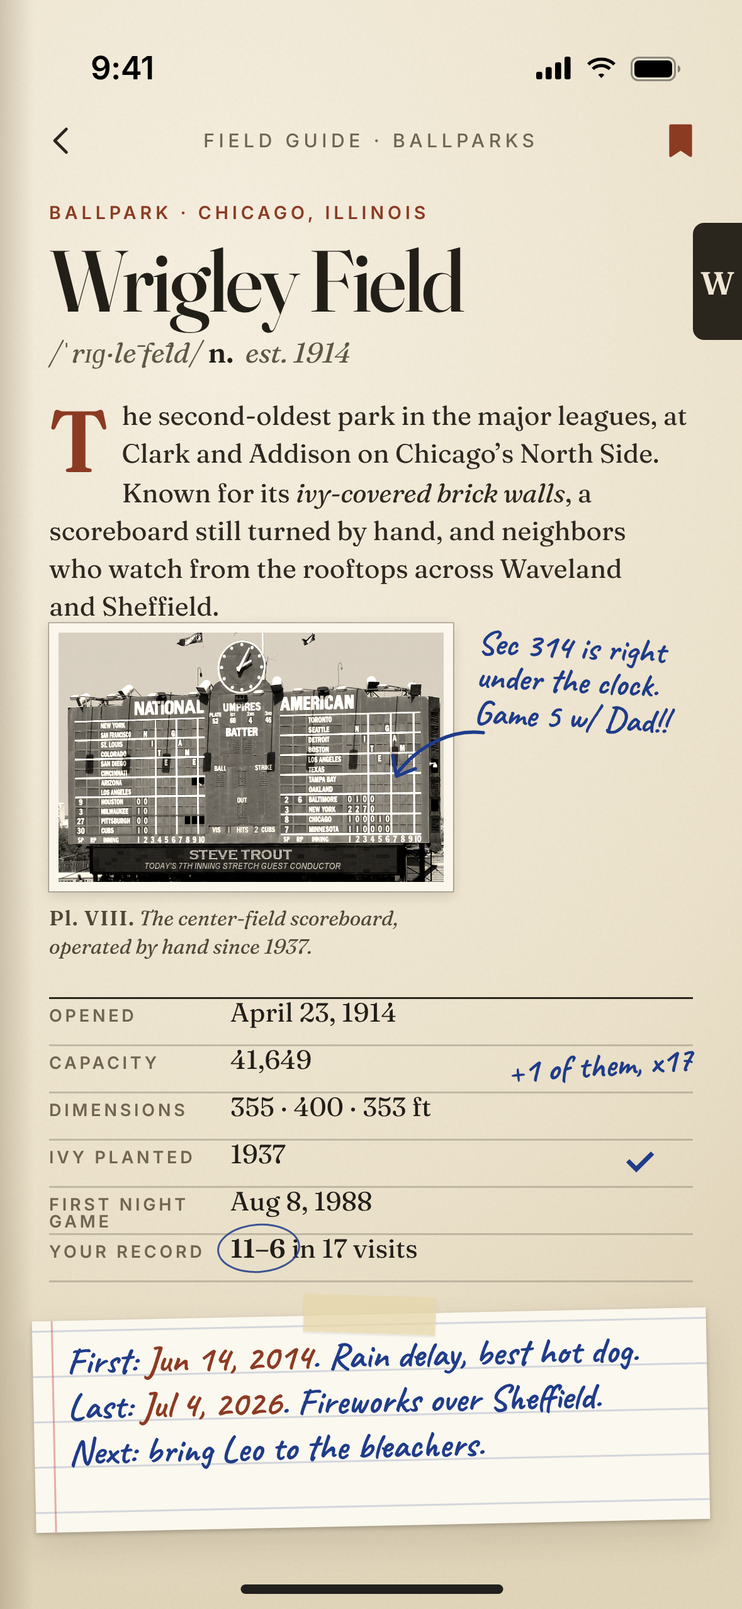
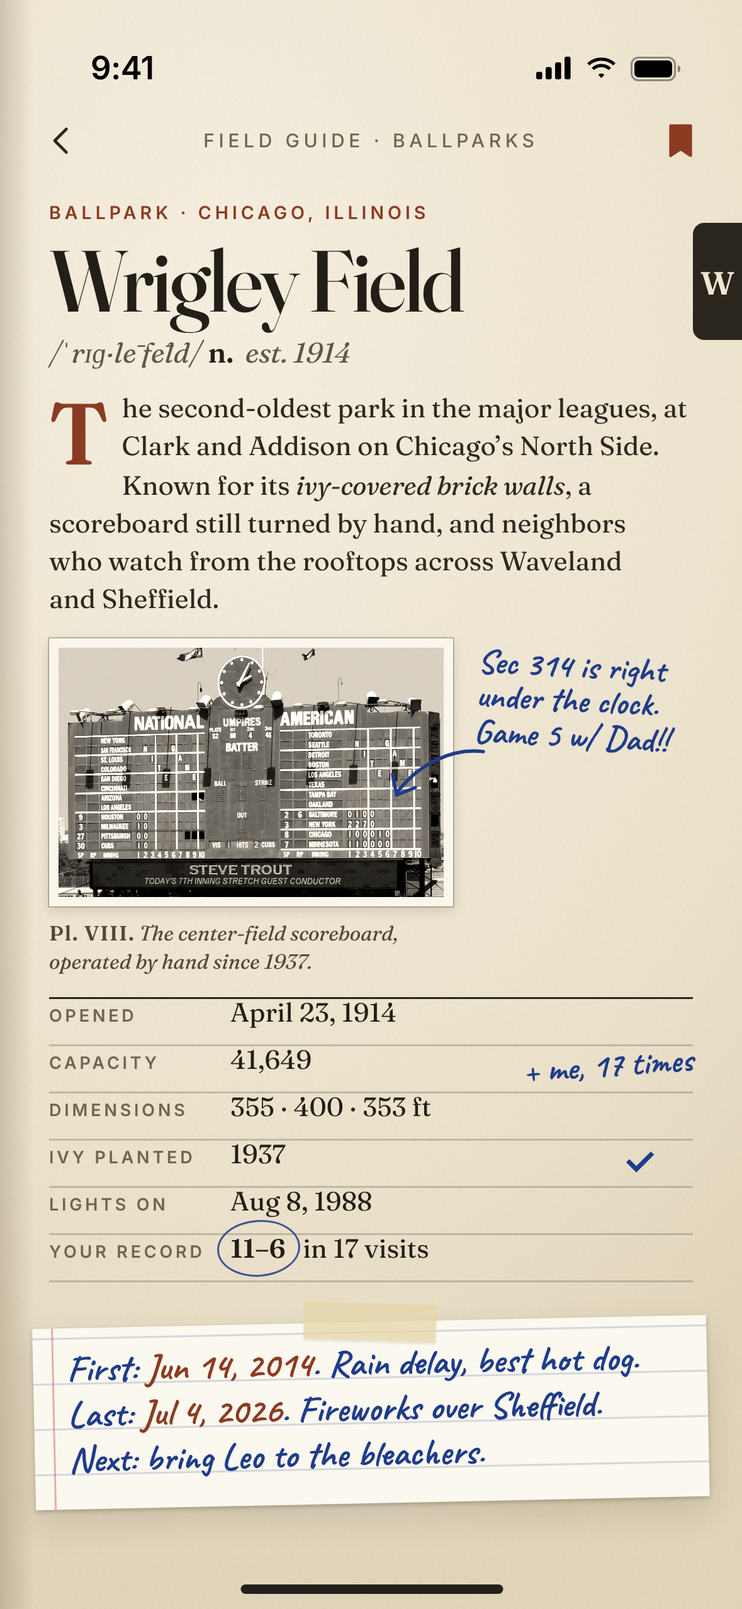
Passport and Timeline mockups
Claude-Session: https://claude.ai/code/session_01YKCsRGYnDsF5Pryete24Wa

diff --git a/mockups/features/09-lifetime-stats/v5-trophy-shelf.html b/mockups/features/09-lifetime-stats/v5-trophy-shelf.html
@@ -1,0 +1,189 @@
+<!doctype html>
+<html><head><meta charset="utf-8"><title>Trophy shelf</title>
+<link rel="stylesheet" href="../../kit/kit.css">
+<style>
+  body.phone { background: #120a07; }
+  .top { position: absolute; top: 56px; left: 16px; right: 16px; display: flex; justify-content: space-between; align-items: center; z-index: 10; }
+  .hdr { position: absolute; left: 24px; right: 24px; top: 108px; z-index: 6; text-align: center; }
+  .hdr .eyebrow { color: #d9b26a; letter-spacing: 3px; }
+  .hdr h1 { font: 400 30px/1.05 var(--f-dm); color: #f6ead2; margin-top: 8px; letter-spacing: -.2px; }
+  .hdr h1 i { color: #e9c77b; }
+  svg#cab { position: absolute; left: 0; top: 0; width: 393px; height: 852px; }
+  text { font-family: "Inter", sans-serif; }
+  .serif { font-family: "DM Serif Display", serif; }
+</style></head>
+<body class="phone">
+  <svg id="cab" viewBox="0 0 393 852">
+    <defs>
+      <linearGradient id="wall" x1="0" x2="1"><stop offset="0" stop-color="#160c09"/><stop offset=".5" stop-color="#2a1711"/><stop offset="1" stop-color="#160c09"/></linearGradient>
+      <pattern id="grain" width="393" height="40" patternUnits="userSpaceOnUse"><path d="M0 8 C 80 4, 160 14, 393 6 M0 22 C 120 28, 220 16, 393 24 M0 34 C 100 30, 260 38, 393 32" stroke="rgba(0,0,0,.25)" fill="none"/></pattern>
+      <radialGradient id="spot" cx="50%" cy="0%" r="62%"><stop offset="0" stop-color="#ffe2a8" stop-opacity=".34"/><stop offset=".55" stop-color="#ffcf80" stop-opacity=".08"/><stop offset="1" stop-color="#ffcf80" stop-opacity="0"/></radialGradient>
+      <linearGradient id="board" x1="0" y1="0" x2="0" y2="1"><stop offset="0" stop-color="#6b3f27"/><stop offset=".25" stop-color="#4a2a1a"/><stop offset="1" stop-color="#2a1710"/></linearGradient>
+      <linearGradient id="gold" x1="0" x2="1"><stop offset="0" stop-color="#7a5212"/><stop offset=".22" stop-color="#e7b94c"/><stop offset=".38" stop-color="#fff1b8"/><stop offset=".55" stop-color="#d79e2c"/><stop offset=".8" stop-color="#8d5f14"/><stop offset="1" stop-color="#c38d27"/></linearGradient>
+      <linearGradient id="goldV" x1="0" y1="0" x2="0" y2="1"><stop offset="0" stop-color="#fff1b8"/><stop offset=".5" stop-color="#d79e2c"/><stop offset="1" stop-color="#7a5212"/></linearGradient>
+      <linearGradient id="silver" x1="0" x2="1"><stop offset="0" stop-color="#5d636c"/><stop offset=".3" stop-color="#dfe4ea"/><stop offset=".45" stop-color="#ffffff"/><stop offset=".7" stop-color="#9aa1aa"/><stop offset="1" stop-color="#4c5158"/></linearGradient>
+      <linearGradient id="bronze" x1="0" x2="1"><stop offset="0" stop-color="#5a2e14"/><stop offset=".3" stop-color="#c47a42"/><stop offset=".45" stop-color="#f2b585"/><stop offset=".7" stop-color="#9a5326"/><stop offset="1" stop-color="#4a250f"/></linearGradient>
+      <linearGradient id="brass" x1="0" y1="0" x2="1" y2="1"><stop offset="0" stop-color="#f3d68c"/><stop offset=".5" stop-color="#c99a45"/><stop offset="1" stop-color="#e8c574"/></linearGradient>
+      <linearGradient id="lacq" x1="0" x2="1"><stop offset="0" stop-color="#0d0908"/><stop offset=".4" stop-color="#2b2220"/><stop offset="1" stop-color="#0d0908"/></linearGradient>
+      <linearGradient id="walnut" x1="0" y1="0" x2="1" y2="1"><stop offset="0" stop-color="#7a4528"/><stop offset=".5" stop-color="#5a3019"/><stop offset="1" stop-color="#3d1f10"/></linearGradient>
+      <linearGradient id="ice" x1="0" y1="0" x2="1" y2="1"><stop offset="0" stop-color="#e9f7ff" stop-opacity=".95"/><stop offset=".45" stop-color="#8fd0f5" stop-opacity=".55"/><stop offset="1" stop-color="#cfefff" stop-opacity=".85"/></linearGradient>
+      <radialGradient id="globe" cx="38%" cy="32%" r="70%"><stop offset="0" stop-color="#fff1b8"/><stop offset=".45" stop-color="#d79e2c"/><stop offset="1" stop-color="#5e3d0c"/></radialGradient>
+      <radialGradient id="ball" cx="38%" cy="32%" r="70%"><stop offset="0" stop-color="#ffffff"/><stop offset=".5" stop-color="#cfd4da"/><stop offset="1" stop-color="#5d636c"/></radialGradient>
+      <filter id="soft"><feGaussianBlur stdDeviation="3"/></filter>
+    </defs>
+
+    <rect width="393" height="852" fill="url(#wall)"/>
+    <rect width="393" height="852" fill="url(#grain)" opacity=".7"/>
+    <!-- spotlights -->
+    <rect x="0" y="0" width="393" height="402" fill="url(#spot)"/>
+    <rect x="0" y="418" width="393" height="180" fill="url(#spot)" opacity=".8"/>
+    <rect x="0" y="614" width="393" height="172" fill="url(#spot)" opacity=".75"/>
+    <!-- cabinet side rails -->
+    <rect x="0" y="0" width="10" height="852" fill="#2c1810"/><rect x="383" y="0" width="10" height="852" fill="#2c1810"/>
+
+    <!-- ===== SHELF 1 (y=402) ===== -->
+    <g id="s1">
+      <!-- silver baseball -->
+      <g transform="translate(70 402)">
+        <ellipse cx="0" cy="-2" rx="38" ry="5" fill="#000" opacity=".5" filter="url(#soft)"/>
+        <rect x="-38" y="-30" width="76" height="30" rx="2" fill="url(#lacq)"/>
+        <rect x="-32" y="-24" width="64" height="18" rx="1.5" fill="url(#brass)"/>
+        <text x="0" y="-12" text-anchor="middle" font-size="9" font-weight="800" fill="#3a2608" letter-spacing=".5">487 RUNS</text>
+        <path d="M-12 -30 L-8 -44 L8 -44 L12 -30Z" fill="url(#silver)"/>
+        <circle cx="0" cy="-74" r="31" fill="url(#ball)"/>
+        <path d="M-20 -97 C -8 -84, -8 -64, -20 -51 M20 -97 C 8 -84, 8 -64, 20 -51" stroke="#b6343a" stroke-width="1.6" fill="none" opacity=".85"/>
+      </g>
+      <!-- gold cup -->
+      <g transform="translate(196 402)">
+        <ellipse cx="0" cy="-2" rx="62" ry="7" fill="#000" opacity=".55" filter="url(#soft)"/>
+        <rect x="-62" y="-44" width="124" height="44" rx="2" fill="url(#lacq)"/>
+        <rect x="-54" y="-37" width="108" height="29" rx="2" fill="url(#brass)"/>
+        <text x="0" y="-25" text-anchor="middle" font-size="8.5" font-weight="800" fill="#3a2608" letter-spacing="1.4">LUCKY CHARM</text>
+        <text x="0" y="-14" text-anchor="middle" font-size="7" font-weight="600" fill="#3a2608" letter-spacing=".4">WIN RATE · 35–22–2</text>
+        <path d="M-30 -44 L-22 -54 L22 -54 L30 -44Z" fill="url(#gold)"/>
+        <path d="M-10 -54 C -8 -70, -6 -82, -5 -92 L5 -92 C 6 -82, 8 -70, 10 -54Z" fill="url(#gold)"/>
+        <ellipse cx="0" cy="-94" rx="14" ry="5" fill="url(#gold)"/>
+        <!-- handles -->
+        <path d="M-58 -196 C -98 -196, -92 -128, -36 -118" stroke="url(#goldV)" stroke-width="7" fill="none" stroke-linecap="round"/>
+        <path d="M58 -196 C 98 -196, 92 -128, 36 -118" stroke="url(#goldV)" stroke-width="7" fill="none" stroke-linecap="round"/>
+        <!-- bowl -->
+        <path d="M-62 -206 C -62 -150, -36 -104, 0 -98 C 36 -104, 62 -150, 62 -206Z" fill="url(#gold)"/>
+        <ellipse cx="0" cy="-206" rx="62" ry="10" fill="#5e3d0c"/>
+        <ellipse cx="0" cy="-206" rx="62" ry="10" fill="none" stroke="#fff1b8" stroke-width="2"/>
+        <path d="M-44 -192 C -44 -160, -30 -130, -16 -118" stroke="#fff8d8" stroke-width="3" fill="none" opacity=".55" stroke-linecap="round"/>
+        <text x="0" y="-146" text-anchor="middle" class="serif" font-size="42" fill="#6e4a0e" opacity=".85">61%</text>
+        <text x="0" y="-147" text-anchor="middle" class="serif" font-size="42" fill="none" stroke="#fff1b8" stroke-width=".6" opacity=".7">61%</text>
+      </g>
+      <!-- bronze football -->
+      <g transform="translate(318 402)">
+        <ellipse cx="0" cy="-2" rx="38" ry="5" fill="#000" opacity=".5" filter="url(#soft)"/>
+        <rect x="-38" y="-30" width="76" height="30" rx="2" fill="url(#lacq)"/>
+        <rect x="-32" y="-24" width="64" height="18" rx="1.5" fill="url(#brass)"/>
+        <text x="0" y="-12" text-anchor="middle" font-size="9" font-weight="800" fill="#3a2608" letter-spacing=".2">1,204 PTS</text>
+        <path d="M-14 -30 L-8 -46 L8 -46 L14 -30Z" fill="url(#bronze)"/>
+        <ellipse cx="0" cy="-76" rx="21" ry="34" transform="rotate(24 0 -76)" fill="url(#bronze)"/>
+        <path d="M-6 -90 L8 -62 M-4 -84 l6 -3 M0 -77 l6 -3 M3 -70 l6 -3" stroke="#ffe1c4" stroke-width="1.6" stroke-linecap="round" opacity=".8"/>
+      </g>
+    </g>
+    <rect x="10" y="402" width="373" height="16" fill="url(#board)"/>
+    <rect x="10" y="402" width="373" height="1.5" fill="#a26a45"/>
+    <rect x="10" y="418" width="373" height="22" fill="#000" opacity=".35" filter="url(#soft)"/>
+
+    <!-- ===== SHELF 2 (y=598) ===== -->
+    <!-- walnut plaque -->
+    <g transform="translate(30 598)">
+      <ellipse cx="78" cy="-2" rx="80" ry="5" fill="#000" opacity=".5" filter="url(#soft)"/>
+      <path d="M8 -136 L156 -136 L160 -2 L4 -2Z" fill="url(#walnut)"/>
+      <path d="M8 -136 L156 -136 L160 -2 L4 -2Z" fill="none" stroke="#a26a45" stroke-width="1.5" opacity=".6"/>
+      <rect x="20" y="-122" width="124" height="104" rx="3" fill="url(#brass)"/>
+      <rect x="24" y="-118" width="116" height="96" rx="2" fill="none" stroke="#8a6420" stroke-width=".8"/>
+      <text x="82" y="-100" text-anchor="middle" font-size="7.5" font-weight="800" fill="#4a3210" letter-spacing="1.8">MILES TRAVELED</text>
+      <text x="82" y="-66" text-anchor="middle" class="serif" font-size="32" fill="#3a2608">42,900</text>
+      <path d="M40 -54 L124 -54" stroke="#8a6420" stroke-width=".8"/>
+      <text x="82" y="-38" text-anchor="middle" font-size="7.5" font-weight="700" fill="#4a3210" letter-spacing=".8">1.7 TIMES AROUND</text>
+      <text x="82" y="-28" text-anchor="middle" font-size="7.5" font-weight="700" fill="#4a3210" letter-spacing=".8">THE EARTH</text>
+    </g>
+    <!-- gold globe -->
+    <g transform="translate(236 598)">
+      <ellipse cx="0" cy="-2" rx="36" ry="5" fill="#000" opacity=".5" filter="url(#soft)"/>
+      <rect x="-30" y="-28" width="60" height="28" rx="2" fill="url(#lacq)"/>
+      <rect x="-26" y="-23" width="52" height="17" rx="1.5" fill="url(#brass)"/>
+      <text x="0" y="-11.5" text-anchor="middle" font-size="8.5" font-weight="800" fill="#3a2608" letter-spacing=".3">4,600 MI</text>
+      <path d="M-4 -28 L-3 -44 L3 -44 L4 -28Z" fill="url(#gold)"/>
+      <path d="M-34 -84 A 36 36 0 0 0 30 -58" stroke="url(#goldV)" stroke-width="3" fill="none"/>
+      <circle cx="0" cy="-82" r="30" fill="url(#globe)"/>
+      <g fill="none" stroke="#6e4a0e" stroke-width="1" opacity=".7">
+        <ellipse cx="0" cy="-82" rx="30" ry="10"/><ellipse cx="0" cy="-82" rx="12" ry="30"/><path d="M-30 -82 H30"/>
+      </g>
+      <circle cx="11" cy="-90" r="3" fill="#b6343a" stroke="#fff1b8" stroke-width="1"/>
+      <text x="0" y="-120" text-anchor="middle" font-size="7.5" font-weight="700" fill="#e9c77b" letter-spacing="1.6">SPAIN · 2020</text>
+    </g>
+    <!-- puck -->
+    <g transform="translate(330 598)">
+      <ellipse cx="0" cy="-2" rx="34" ry="5" fill="#000" opacity=".5" filter="url(#soft)"/>
+      <path d="M-26 0 L-20 -64 L20 -64 L26 0Z" fill="url(#lacq)"/>
+      <rect x="-22" y="-44" width="44" height="30" rx="1.5" fill="url(#brass)"/>
+      <text x="0" y="-31" text-anchor="middle" class="serif" font-size="14" fill="#3a2608">162</text>
+      <text x="0" y="-20" text-anchor="middle" font-size="7" font-weight="800" fill="#3a2608" letter-spacing="1">GOALS</text>
+      <ellipse cx="0" cy="-70" rx="24" ry="7" fill="#0b0b0c"/>
+      <rect x="-24" y="-82" width="48" height="12" fill="#151517"/>
+      <ellipse cx="0" cy="-82" rx="24" ry="7" fill="url(#silver)" opacity=".9"/>
+      <ellipse cx="0" cy="-82" rx="24" ry="7" fill="#1c1c1f" opacity=".75"/>
+      <path d="M-18 -84 q 18 -6 36 0" stroke="#fff" stroke-width="1" fill="none" opacity=".35"/>
+    </g>
+    <rect x="10" y="598" width="373" height="16" fill="url(#board)"/>
+    <rect x="10" y="598" width="373" height="1.5" fill="#a26a45"/>
+    <rect x="10" y="614" width="373" height="22" fill="#000" opacity=".35" filter="url(#soft)"/>
+
+    <!-- ===== SHELF 3 (y=786) ===== -->
+    <!-- ice crystal -->
+    <g transform="translate(66 786)">
+      <ellipse cx="0" cy="-2" rx="38" ry="5" fill="#000" opacity=".5" filter="url(#soft)"/>
+      <rect x="-32" y="-24" width="64" height="24" rx="2" fill="url(#lacq)"/>
+      <rect x="-27" y="-19" width="54" height="14" rx="1.5" fill="#cfd4da"/>
+      <text x="0" y="-9" text-anchor="middle" font-size="7.5" font-weight="800" fill="#25303a" letter-spacing=".8">COLDEST</text>
+      <path d="M-22 -24 L-26 -96 L-6 -132 L18 -118 L26 -40 L22 -24Z" fill="url(#ice)" stroke="#e9f7ff" stroke-width="1"/>
+      <path d="M-6 -132 L-2 -24 M-26 -96 L18 -118 M-2 -70 L26 -40" stroke="#ffffff" stroke-width=".8" opacity=".6"/>
+      <text x="0" y="-62" text-anchor="middle" class="serif" font-size="22" fill="#0f3a58">19°F</text>
+      <text x="0" y="-48" text-anchor="middle" font-size="6" font-weight="700" fill="#0f3a58" letter-spacing=".3">LAMBEAU</text>
+    </g>
+    <!-- Maya medal -->
+    <g transform="translate(176 786)">
+      <ellipse cx="0" cy="-2" rx="44" ry="5" fill="#000" opacity=".5" filter="url(#soft)"/>
+      <path d="M-34 0 L-6 -96 M34 0 L6 -96" stroke="#3d1f10" stroke-width="4" stroke-linecap="round"/>
+      <path d="M-20 -128 L0 -82 L20 -128 L8 -128 L0 -104 L-8 -128Z" fill="#ff7a8a"/>
+      <path d="M-20 -128 L-8 -128 L0 -104 L8 -128 L20 -128" fill="none" stroke="#c94a5c" stroke-width="1"/>
+      <path d="M-4 -128 L4 -128 L0 -112Z" fill="#fff" opacity=".7"/>
+      <circle cx="0" cy="-58" r="31" fill="url(#gold)"/>
+      <circle cx="0" cy="-58" r="26" fill="none" stroke="#fff1b8" stroke-width="1.2" opacity=".8"/>
+      <text x="0" y="-55" text-anchor="middle" class="serif" font-size="24" fill="#5e3d0c">17</text>
+      <text x="0" y="-43" text-anchor="middle" font-size="5.6" font-weight="800" fill="#5e3d0c" letter-spacing=".5">WITH MAYA</text>
+    </g>
+    <!-- plaques: venues + countries -->
+    <g transform="translate(250 786)">
+      <ellipse cx="62" cy="-2" rx="66" ry="5" fill="#000" opacity=".5" filter="url(#soft)"/>
+      <rect x="0" y="-84" width="124" height="84" rx="4" fill="url(#lacq)"/>
+      <rect x="8" y="-76" width="108" height="32" rx="2" fill="url(#brass)"/>
+      <text x="18" y="-53" class="serif" font-size="22" fill="#3a2608">21</text>
+      <text x="48" y="-56" font-size="8" font-weight="800" fill="#3a2608" letter-spacing="1.2">VENUES</text>
+      <rect x="8" y="-38" width="108" height="30" rx="2" fill="url(#brass)"/>
+      <text x="18" y="-16" class="serif" font-size="22" fill="#3a2608">3</text>
+      <text x="48" y="-19" font-size="8" font-weight="800" fill="#3a2608" letter-spacing="1.2">COUNTRIES</text>
+      <rect x="2" y="-84" width="120" height="2" fill="#fff" opacity=".1"/>
+    </g>
+    <rect x="10" y="786" width="373" height="16" fill="url(#board)"/>
+    <rect x="10" y="786" width="373" height="1.5" fill="#a26a45"/>
+    <rect x="10" y="802" width="373" height="50" fill="#0b0605"/>
+  </svg>
+
+  <div class="top">
+    <div class="btn-circle glass"><svg viewBox="0 0 24 24"><path d="M15 5l-7 7 7 7"/></svg></div>
+    <div class="btn-circle glass"><svg viewBox="0 0 24 24"><path d="M12 3v12M7 8l5-5 5 5M5 13v6a2 2 0 0 0 2 2h10a2 2 0 0 0 2-2v-6"/></svg></div>
+  </div>
+  <div class="hdr">
+    <div class="eyebrow">Trophy room · Since 2014</div>
+    <h1>Sixty games, <i>polished.</i></h1>
+  </div>
+  <div class="grain" style="opacity:.2"></div>
+<script src="../../kit/kit.js"></script>
+</body></html>

diff --git a/mockups/features/04-timeline/v5-scorebook.html b/mockups/features/04-timeline/v5-scorebook.html
@@ -1,0 +1,125 @@
+<!doctype html>
+<html><head><meta charset="utf-8"><title>Scorebook</title>
+<link rel="stylesheet" href="../../kit/kit.css">
+<style>
+  body.phone { background: #2b2a26; }
+  .desk { position: absolute; inset: 0; background: radial-gradient(80% 60% at 50% 40%, #3b3933, #23221e); }
+  .page { position: absolute; left: 10px; right: 10px; top: 0; bottom: 0; background: #f4efe2; overflow: hidden;
+    box-shadow: 0 0 0 .5px rgba(0,0,0,.3), 0 10px 40px rgba(0,0,0,.5); }
+  .page::before { content: ""; position: absolute; inset: 0; background: linear-gradient(90deg, rgba(90,70,30,.12), rgba(90,70,30,0) 8%, rgba(90,70,30,0) 92%, rgba(90,70,30,.08)); }
+  .page .paper-tex { opacity: .6; }
+  :root { --g: #2f7a5a; --g2: rgba(47,122,90,.45); --g3: rgba(47,122,90,.2); --pen: #3c3c42; }
+  .graphite { filter: url(#graphite); color: var(--pen); }
+
+  .top { position: absolute; top: 56px; left: 10px; right: 10px; display: flex; justify-content: space-between; align-items: center; z-index: 5; }
+  .top .btn-circle { width: 36px; height: 36px; background: rgba(47,122,90,.08); }
+  .top .btn-circle svg { stroke: var(--g); }
+  .top .bk { font: 700 10px/1 var(--f-cond); letter-spacing: 2.4px; text-transform: uppercase; color: var(--g); }
+
+  .hdr { position: absolute; left: 16px; right: 16px; top: 100px; z-index: 3; }
+  .hdr .title { font: 800 30px/1 var(--f-cond); letter-spacing: 5px; color: var(--g); text-transform: uppercase; display: flex; justify-content: space-between; align-items: baseline; }
+  .hdr .title span { font: 600 10px/1 var(--f-cond); letter-spacing: 2px; }
+  .field { display: flex; align-items: flex-end; gap: 6px; margin-top: 10px; }
+  .field label { font: 700 9px/1 var(--f-cond); letter-spacing: 1.6px; color: var(--g); text-transform: uppercase; white-space: nowrap; padding-bottom: 3px; }
+  .field .line { flex: 1; border-bottom: 1px solid var(--g2); font: 600 20px/1 var(--f-hand); padding-left: 4px; height: 22px; white-space: nowrap; }
+
+  /* line score */
+  .ls { position: absolute; left: 16px; right: 16px; top: 196px; z-index: 3; }
+  .ls table { width: 100%; border-collapse: collapse; }
+  .ls td, .ls th { border: 1px solid var(--g2); height: 30px; text-align: center; }
+  .ls th { height: 18px; font: 700 9px/1 var(--f-cond); color: var(--g); letter-spacing: 1px; background: var(--g3); }
+  .ls td { font: 600 22px/1 var(--f-hand); color: var(--pen); }
+  .ls td.tm { width: 52px; text-align: left; padding-left: 6px; font-size: 19px; }
+  .ls td.r { border-left: 2px solid var(--g); font-weight: 700; font-size: 24px; }
+  .ls th.r { border-left: 2px solid var(--g); }
+  .circle { position: absolute; border: 1.6px solid var(--pen); border-radius: 50%; opacity: .8; }
+  .note { position: absolute; font: 600 17px/1.05 var(--f-hand); color: var(--pen); z-index: 4; white-space: nowrap; }
+
+  /* log */
+  .log { position: absolute; left: 16px; right: 16px; top: 334px; z-index: 3; }
+  .row { position: relative; display: grid; grid-template-columns: 24px 48px 76px 88px 50px 22px 1fr; height: 37px; border-bottom: 1px solid var(--g2); align-items: end; }
+  .row > * { border-left: 1px solid var(--g3); height: 100%; display: flex; align-items: flex-end; padding: 0 0 6px 4px; white-space: nowrap; overflow: visible; }
+  .row > *:first-child { border-left: 0; }
+  .row.h { height: 20px; background: var(--g3); border-top: 1.5px solid var(--g); border-bottom: 1.5px solid var(--g); }
+  .row.h > * { font: 700 8.5px/1 var(--f-cond); letter-spacing: 1.2px; color: var(--g); text-transform: uppercase; padding-bottom: 5px; }
+  .row .w { font: 600 18px/1 var(--f-hand); }
+  .row .n { font: 600 15px/1 var(--f-hand); opacity: .75; }
+  .season { height: 30px; border-bottom: 1px solid var(--g2); display: flex; align-items: flex-end; gap: 8px; padding-bottom: 5px; }
+  .season b { font: 700 8.5px/1 var(--f-cond); letter-spacing: 2px; color: var(--g); text-transform: uppercase; padding-bottom: 3px; }
+  .season span { font: 700 21px/1 var(--f-hand); }
+  .hl { position: absolute; left: -4px; right: -4px; top: 3px; bottom: 2px; background: rgba(255,214,90,.42); border-radius: 3px 8px 4px 9px; transform: rotate(-.6deg); z-index: -1; }
+  .av { display: inline-grid; place-items: center; width: 17px; height: 17px; border-radius: 9px; font: 800 7.5px/1 var(--f-ui); color: #10261a; margin-bottom: 1px; }
+
+  /* pencil */
+  .pencil { position: absolute; left: 118px; top: 800px; width: 300px; height: 15px; transform: rotate(-10deg); transform-origin: 0 50%; z-index: 8;
+    filter: drop-shadow(0 9px 6px rgba(40,30,10,.35)); }
+  .pencil .tip { position: absolute; left: 0; top: 0; width: 42px; height: 15px; clip-path: polygon(0 50%, 100% 0, 100% 100%);
+    background: linear-gradient(180deg, #f1d3a3, #d9a96a 55%, #b9844a); }
+  .pencil .lead { position: absolute; left: 0; top: 0; width: 13px; height: 15px; clip-path: polygon(0 50%, 100% 32%, 100% 68%); background: #2a2a2e; }
+  .pencil .body { position: absolute; left: 42px; top: 0; width: 210px; height: 15px; clip-path: polygon(0 0, 100% 0, 100% 100%, 0 100%);
+    background: linear-gradient(180deg, #ffe37a 0%, #f6c531 30%, #e2a91b 55%, #f2c02b 72%, #b8830f 100%); }
+  .pencil .body::before { content: ""; position: absolute; left: 0; top: 0; height: 15px; width: 8px; background: linear-gradient(90deg, #f6c531, rgba(0,0,0,0)); clip-path: polygon(0 0, 100% 15%, 100% 85%, 0 100%); }
+  .pencil .body span { position: absolute; left: 60px; top: 3px; font: 700 7px/1 var(--f-cond); letter-spacing: 1.5px; color: rgba(40,30,0,.55); }
+  .pencil .fer { position: absolute; left: 252px; top: -1px; width: 22px; height: 17px; border-radius: 1px;
+    background: repeating-linear-gradient(90deg, rgba(0,0,0,.18) 0 1px, rgba(0,0,0,0) 1px 5px), linear-gradient(180deg, #f2f2f2, #b9bcc0 45%, #8a8e94 60%, #d6d8db); }
+  .pencil .er { position: absolute; left: 274px; top: -.5px; width: 22px; height: 16px; border-radius: 0 5px 5px 0; background: linear-gradient(180deg, #ffb3b0, #e88480 55%, #c9625e); }
+</style></head>
+<body class="phone" data-chrome="dark">
+<svg width="0" height="0" style="position:absolute">
+  <filter id="graphite" x="-5%" y="-5%" width="110%" height="110%">
+    <feTurbulence type="fractalNoise" baseFrequency="1.4" numOctaves="2" seed="4" result="n"/>
+    <feDisplacementMap in="SourceGraphic" in2="n" scale="1.2" result="d"/>
+    <feTurbulence type="fractalNoise" baseFrequency="2.4" numOctaves="1" seed="9" result="g"/>
+    <feColorMatrix in="g" type="matrix" values="0 0 0 0 0 0 0 0 0 0 0 0 0 0 0 0 0 0 3 -.6" result="ga"/>
+    <feComposite in="d" in2="ga" operator="in"/>
+  </filter>
+</svg>
+<div class="desk"></div>
+<div class="page">
+  <div class="paper-tex"></div>
+</div>
+
+<div class="top">
+  <div class="btn-circle"><svg viewBox="0 0 24 24"><path d="M15 5l-7 7 7 7"/></svg></div>
+  <div class="bk">Book III · page 18 of 60</div>
+  <div class="btn-circle"><svg viewBox="0 0 24 24"><path d="M4 20l4-1 11-11-3-3L5 16z"/><path d="M14 7l3 3"/></svg></div>
+</div>
+
+<div class="hdr">
+  <div class="title">Scorebook <span>Witness · No. 0003</span></div>
+  <div class="field" style="gap:6px">
+    <label>Game</label><div class="line graphite">World Series, Gm 5</div>
+    <label>Park</label><div class="line graphite" style="flex:.7">Wrigley</div>
+  </div>
+</div>
+
+<div class="ls graphite">
+  <table>
+    <tr><th></th><th>1</th><th>2</th><th>3</th><th>4</th><th>5</th><th>6</th><th>7</th><th>8</th><th>9</th><th class="r">R</th></tr>
+    <tr><td class="tm">CLE</td><td>0</td><td>1</td><td>0</td><td>0</td><td>0</td><td>1</td><td>0</td><td>0</td><td>0</td><td class="r">2</td></tr>
+    <tr><td class="tm">CHI</td><td>0</td><td>0</td><td>0</td><td>3</td><td>0</td><td>0</td><td>0</td><td>0</td><td>×</td><td class="r">3</td></tr>
+  </table>
+</div>
+<div class="circle graphite" style="left:160px;top:250px;width:30px;height:30px;transform:rotate(-8deg)"></div>
+<div class="note graphite" style="left:186px;top:290px;transform:rotate(-3deg)">↖ Bryant HR, then 2 more</div>
+<div class="note graphite" style="left:20px;top:290px;transform:rotate(-2deg)">Chapman · 8 outs</div>
+
+<div class="log">
+  <div class="row h"><span>No.</span><span>Date</span><span>Park</span><span>Game</span><span>Final</span><span>R</span><span>With</span></div>
+  <div class="season graphite"><b>Season</b><span>2015</span></div>
+  <div class="row graphite"><span class="n">07</span><span class="w">4/5</span><span class="w">Wrigley</span><span class="w">STL @ CHI</span><span class="w">0–3</span><span class="w">L</span><span><i class="av" style="background:#8fe3a0">R</i></span></div>
+  <div class="row graphite"><span class="n">11</span><span class="w">6/15</span><span class="w">United Ctr</span><span class="w">TB @ CHI</span><span class="w">2–0</span><span class="w">W</span><span><i class="av" style="background:#8fe3a0">R</i></span></div>
+  <div class="season graphite"><b>Season</b><span>2016</span></div>
+  <div class="row graphite"><span class="n">17</span><span class="w">10/22</span><span class="w">Wrigley</span><span class="w">LA @ CHI</span><span class="w">5–0</span><span class="w">W</span><span><i class="av" style="background:#8fe3a0">R</i></span></div>
+  <div class="row graphite"><div class="hl"></div><span class="n">18</span><span class="w">10/30</span><span class="w">Wrigley</span><span class="w">CLE @ CHI</span><span class="w">3–2</span><span class="w">W</span><span><i class="av" style="background:#8fe3a0">R</i></span></div>
+  <div class="season graphite"><b>Season</b><span>2017</span></div>
+  <div class="row graphite"><span class="n">23</span><span class="w">11/25</span><span class="w">Dortmund</span><span class="w">S04 @ BVB</span><span class="w">4–4</span><span class="w">T</span><span></span></div>
+  <div class="season graphite"><b>Season</b><span>2019</span></div>
+  <div class="row graphite"><span class="n">29</span><span class="w">1/6</span><span class="w">Soldier</span><span class="w">PHI @ CHI</span><span class="w">15–16</span><span class="w">L</span><span><i class="av" style="background:#8fe3a0">R</i></span></div>
+</div>
+<div class="note graphite" style="left:196px;top:362px;transform:rotate(-4deg);font-size:18px">the Cup, on home ice ↘</div>
+<div class="note graphite" style="left:236px;top:706px;transform:rotate(-4deg)">doink. doink. ugh.</div>
+
+<div class="pencil"><div class="tip"></div><div class="lead"></div><div class="body"><span>WITNESS Nº 2 · HB</span></div><div class="fer"></div><div class="er"></div></div>
+<script src="../../kit/kit.js"></script>
+</body></html>

diff --git a/mockups/features/09-lifetime-stats/v1-editorial.html b/mockups/features/09-lifetime-stats/v1-editorial.html
@@ -14,6 +14,11 @@
   .kick { position: absolute; left: 22px; top: 134px; font: 600 10.5px/1 var(--f-ui); letter-spacing: 2px; text-transform: uppercase; color: #d2401f; }
   .huge { position: absolute; left: 14px; top: 156px; font: 400 214px/.86 var(--f-serif); letter-spacing: -11px; color: #141210; }
   .huge sup { font-size: 112px; letter-spacing: -3px; vertical-align: 0; position: relative; top: -82px; margin-left: 10px; font-style: italic; color: #d2401f; }
+  .side { position: absolute; left: 262px; right: 22px; top: 226px; padding-left: 12px; border-left: 1px solid #141210; }
+  .side .sk { font: 600 9.5px/1 var(--f-ui); letter-spacing: 1.6px; text-transform: uppercase; color: #6e675c; }
+  .side .sn { font: 400 44px/1 var(--f-serif); letter-spacing: -1.5px; margin-top: 6px; color: #8a8378; }
+  .side .sn i { font-size: 26px; }
+  .side .sc { font: 400 11px/1.35 var(--f-ui); color: #6e675c; margin-top: 6px; }
   .dek { position: absolute; left: 22px; right: 22px; top: 346px; font: 400 25px/1.08 var(--f-serif); letter-spacing: -.2px; }
   .dek em { color: #d2401f; }
 
@@ -56,6 +61,7 @@
 
   <div class="kick">Sixty games, by the numbers</div>
   <div class="huge tnum">61<sup>%</sup></div>
+  <div class="side"><div class="sk">Stayed home</div><div class="sn tnum">48<i>%</i></div><div class="sc">When he watched from the couch instead.</div></div>
   <div class="dek">of the games Sam attended,<br><em>his team won.</em></div>
 
   <div class="dots" id="dots"></div>

diff --git a/mockups/png/09-lifetime-stats/_sheet.html b/mockups/png/09-lifetime-stats/_sheet.html
@@ -12,4 +12,5 @@
       <figure><img src="file:///home/user/SportsApp/mockups/png/09-lifetime-stats/v1-editorial.png"><figcaption><b>01</b> Editorial</figcaption></figure>
       <figure><img src="file:///home/user/SportsApp/mockups/png/09-lifetime-stats/v2-card-back.png"><figcaption><b>02</b> Card back</figcaption></figure>
       <figure><img src="file:///home/user/SportsApp/mockups/png/09-lifetime-stats/v3-infographic.png"><figcaption><b>03</b> Infographic</figcaption></figure>
-      <figure><img src="file:///home/user/SportsApp/mockups/png/09-lifetime-stats/v4-terminal.png"><figcaption><b>04</b> Terminal</figcaption></figure></div></body></html>
+      <figure><img src="file:///home/user/SportsApp/mockups/png/09-lifetime-stats/v4-terminal.png"><figcaption><b>04</b> Terminal</figcaption></figure>
+      <figure><img src="file:///home/user/SportsApp/mockups/png/09-lifetime-stats/v5-trophy-shelf.png"><figcaption><b>05</b> Trophy shelf</figcaption></figure></div></body></html>

diff --git a/mockups/png/04-timeline/_sheet.html b/mockups/png/04-timeline/_sheet.html
@@ -12,4 +12,5 @@
       <figure><img src="file:///home/user/SportsApp/mockups/png/04-timeline/v1-magazine-feed.png"><figcaption><b>01</b> Magazine feed</figcaption></figure>
       <figure><img src="file:///home/user/SportsApp/mockups/png/04-timeline/v2-ticket-stack.png"><figcaption><b>02</b> Ticket stack</figcaption></figure>
       <figure><img src="file:///home/user/SportsApp/mockups/png/04-timeline/v3-calendar-wall.png"><figcaption><b>03</b> Calendar wall</figcaption></figure>
-      <figure><img src="file:///home/user/SportsApp/mockups/png/04-timeline/v4-film-reel.png"><figcaption><b>04</b> Film reel</figcaption></figure></div></body></html>
+      <figure><img src="file:///home/user/SportsApp/mockups/png/04-timeline/v4-film-reel.png"><figcaption><b>04</b> Film reel</figcaption></figure>
+      <figure><img src="file:///home/user/SportsApp/mockups/png/04-timeline/v5-scorebook.png"><figcaption><b>05</b> Scorebook</figcaption></figure></div></body></html>

diff --git a/mockups/features/08-venue/v5-field-guide.html b/mockups/features/08-venue/v5-field-guide.html
@@ -78,7 +78,7 @@
     <div class="r"><span class="k">Dimensions</span><span class="v tnum">355 · 400 · 353 ft</span></div>
     <div class="r"><span class="k">Ivy planted</span><span class="v">1937</span></div>
     <div class="r"><span class="k">Lights on</span><span class="v">Aug 8, 1988</span></div>
-    <div class="r"><span class="k">Your record</span><span class="v tnum"><span style="font-weight:600">11–6</span> in 17 visits<i class="circ" style="right:auto;left:-9px;width:52px"></i></span></div>
+    <div class="r"><span class="k">Your record</span><span class="v tnum"><span style="font-weight:600;position:relative;margin-right:6px">11–6<i class="circ"></i></span> in 17 visits</span></div>
   </div>
   <div class="hand n2">+ me, 17 times</div>
   <div class="hand tick" style="top:603px">✓</div>

diff --git a/mockups/features/09-lifetime-stats/v2-card-back.html b/mockups/features/09-lifetime-stats/v2-card-back.html
@@ -95,7 +95,7 @@
         </svg>
       </div>
       <div class="facts">
-        <div class="q"><div class="k">Coldest game</div><div class="t"><b>19°F</b> and light snow at Lambeau, Jan 5, 2025. Chicago won 24–22 on the last kick.</div></div>
+        <div class="q"><div class="k">Coldest game</div><div class="t"><b>19°F</b> and light snow at Lambeau, <span class="nowrap">Jan 5, 2025.</span> Chicago won 24–22 on the last kick.</div></div>
         <div class="q"><div class="k">Longest trip</div><div class="t"><b>4,600 mi</b> from home: Spain, 2020, with Dana, Maya &amp; Leo.</div></div>
       </div>
     </div>
